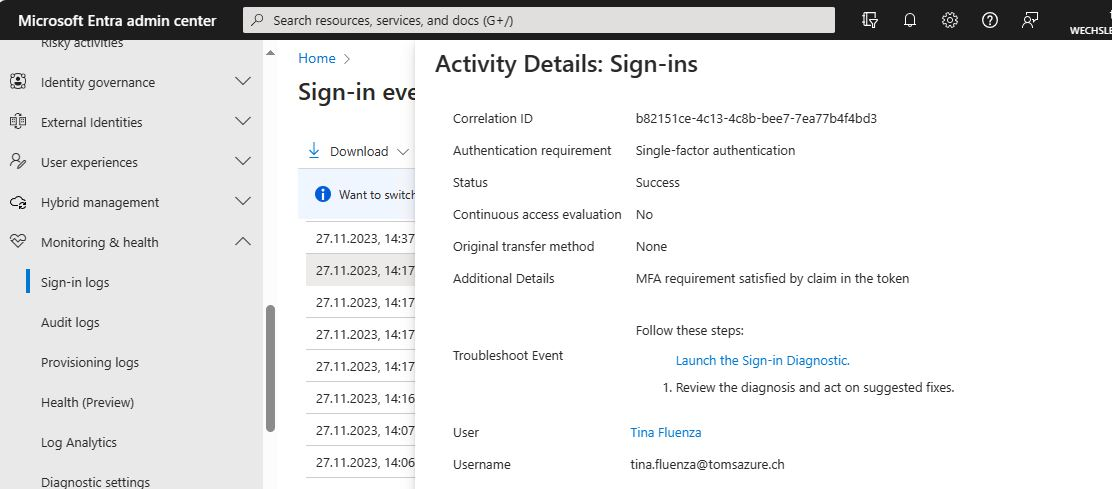
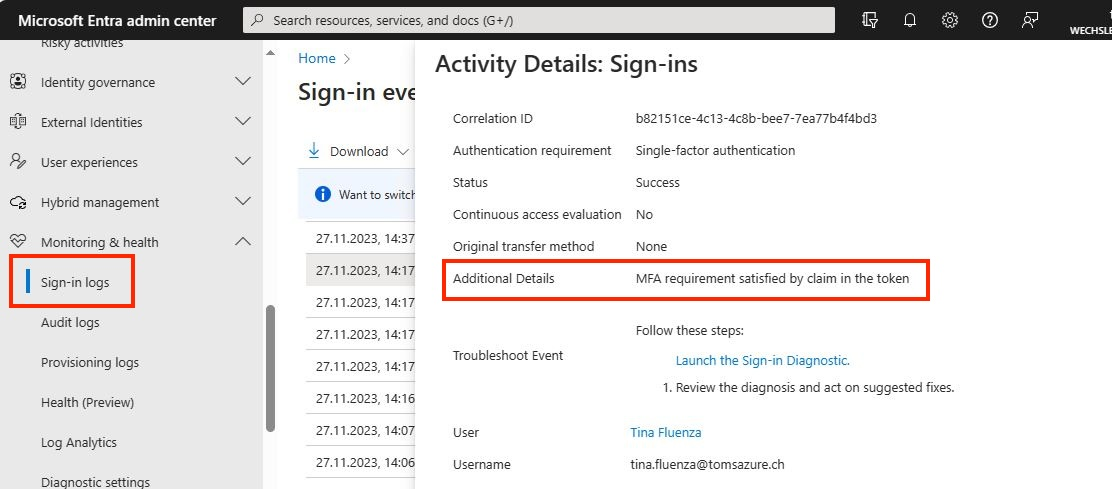
new files

Changed region(s): [[0.3975, 0.5215, 0.8561, 0.6442], [0.0, 0.4908, 0.1223, 0.6442]]

diff --git a/Entra_certificate_binding/Entra_ID_certificate_binding.md b/Entra_certificate_binding/Entra_ID_certificate_binding.md
@@ -40,7 +40,11 @@ In the Entra ID Admin Center, we now set the value of the Subject Key Identifier
 
 > Note: Please pay attention to the syntax (X509:<SKI>).
 
+**Entra ID Sign-In Logs:**  
 
+The "Tina Fluenza" has now registered on the portal https://myapps.microsoft.com and selected the certificate during the application process. This information can be found in the Entra ID Admin Center in the sign-in logs. With the confirmation of MFA by the claim in the token.
+
+<img src="/Entra_certificate_binding/Images/Claim_in_Token.JPG.JPG" alt="Sign-In Logs">
 
 ---
 ## *HAPPY BINDING!*
